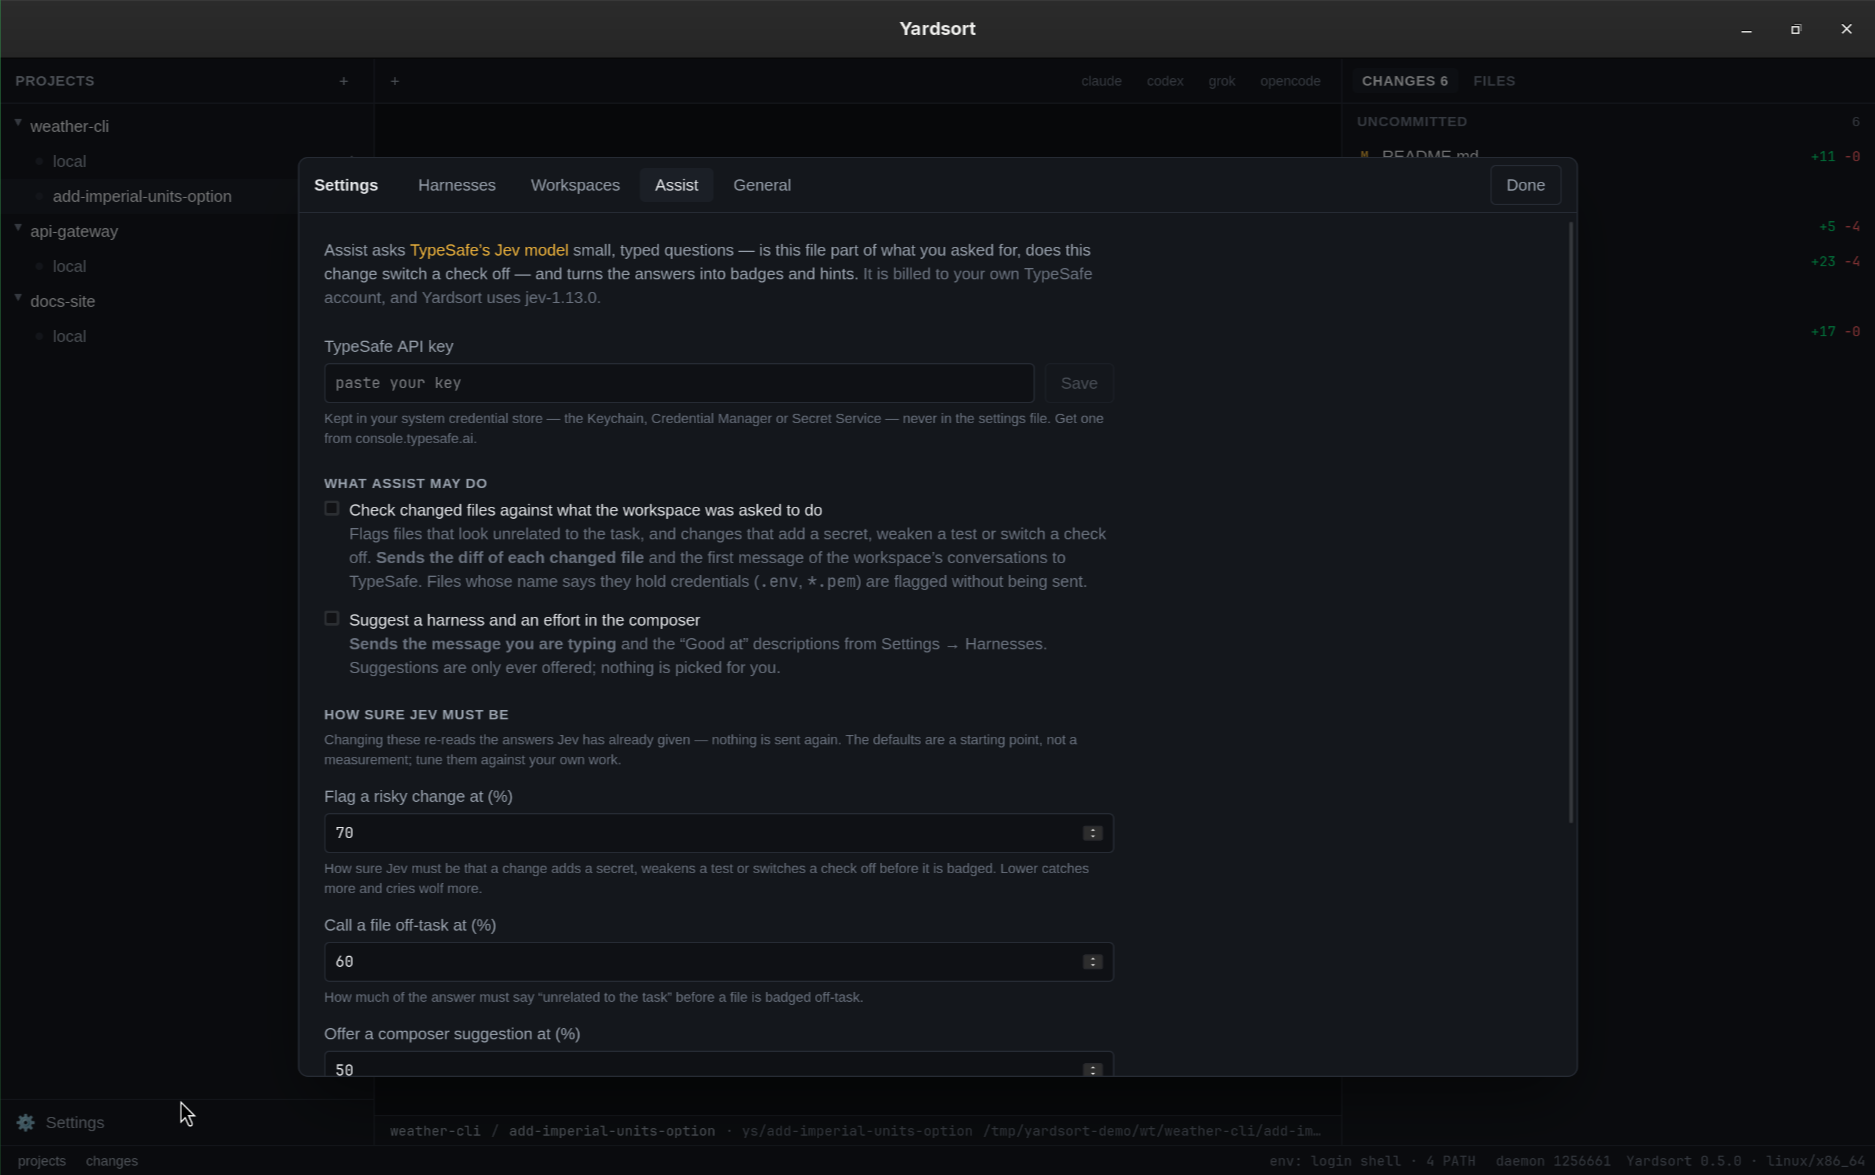
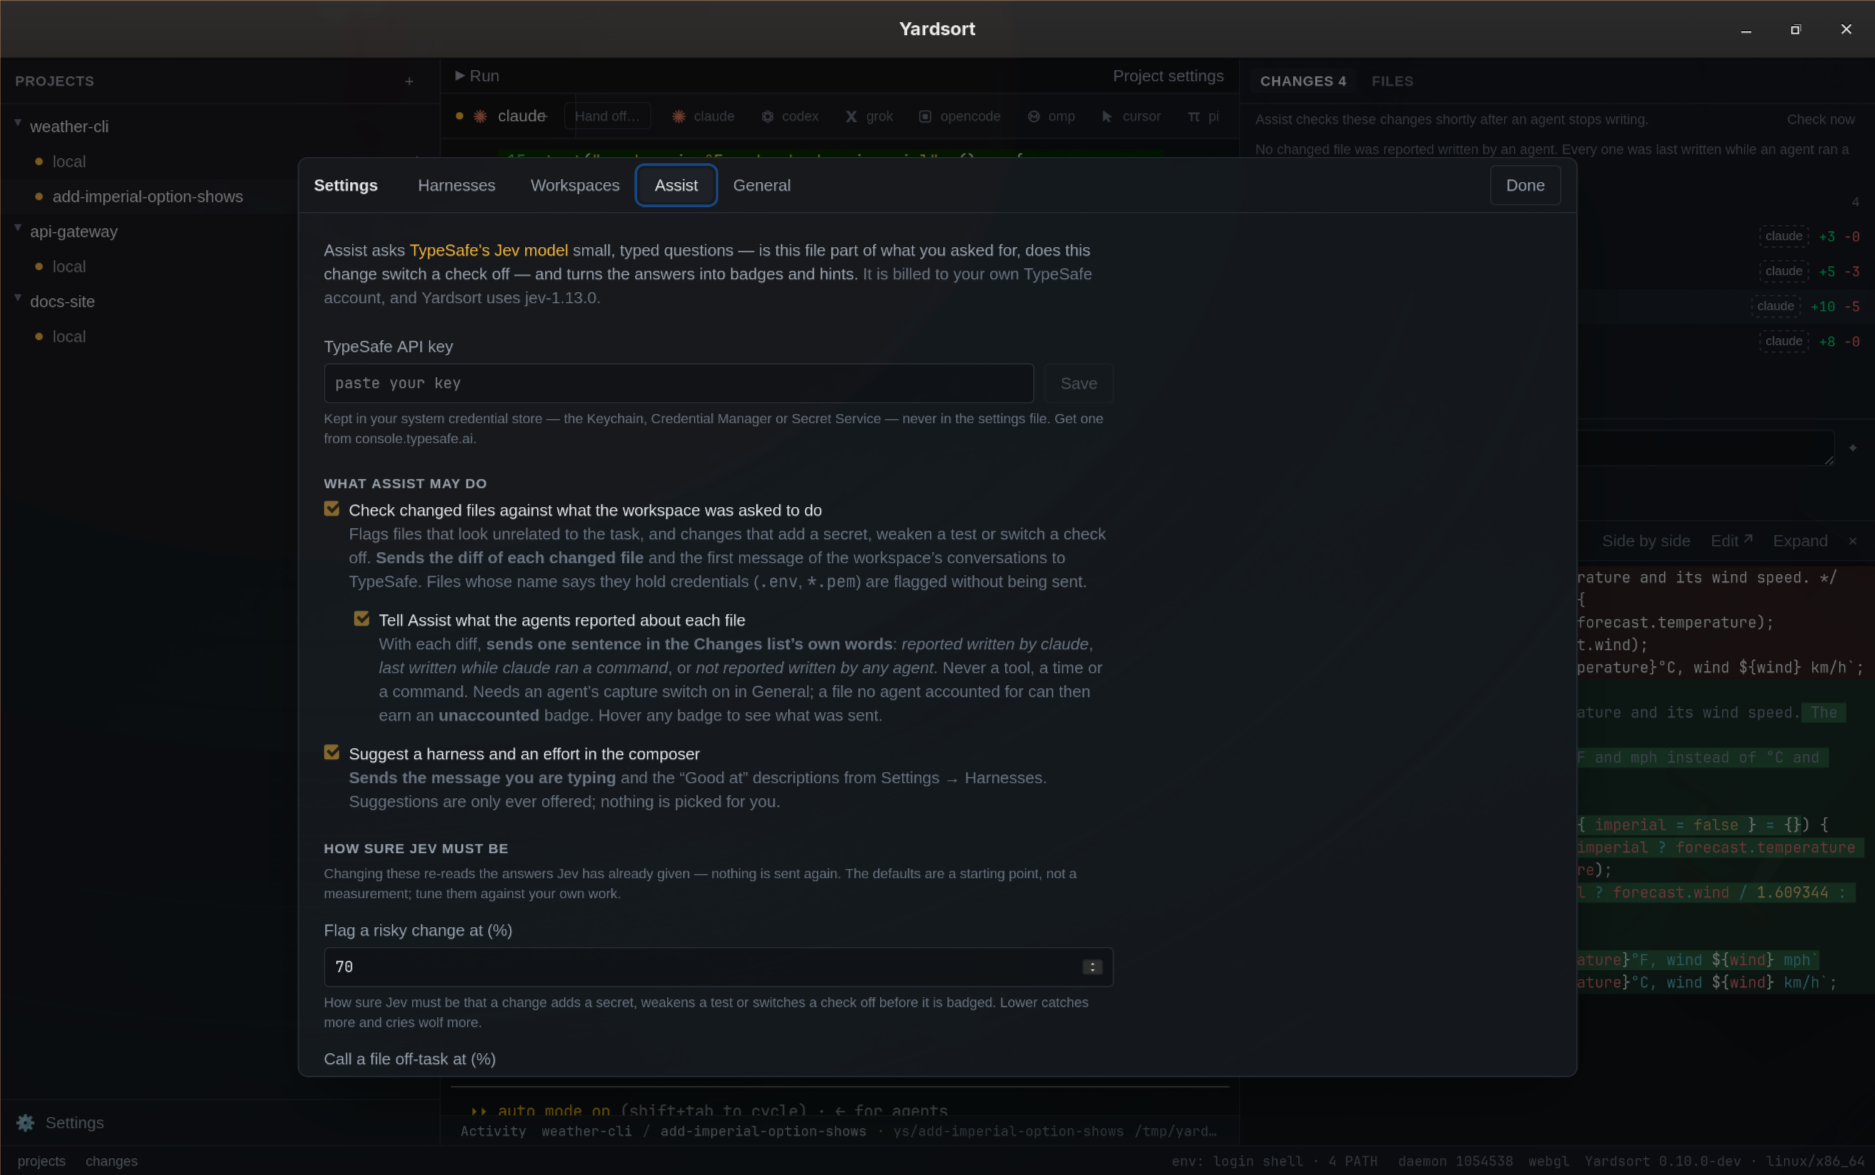
Screenshots for 0.11.0, and three small bugs they caught
overview.png is retaken with the seven agent buttons, Hand off…, and the
Changes list's who-wrote badges beside an open diff; assist.png with the
third switch. Both on the throwaway profile from scripts/screenshots.sh,
demo repositories, agent shims and the credential store unreachable.

Taking them caught three bugs in this release's own UI: Hand off… wrapped
onto two lines once the tab bar held seven agents (now nowrap and
unshrinkable); the line above the list said "Every one were last written"
when every changed file was observed (now "was", with a test); and the new
Assist switch's copy lost the space after its colon to a JSX line break.

diff --git a/src/features/changes/ChangesPanel.test.tsx b/src/features/changes/ChangesPanel.test.tsx
@@ -663,6 +663,26 @@ describe("ChangesPanel with reported writes", () => {
     expect(tooltip).not.toContain("Invalid");
   });
 
+  it("says every one was written while a command ran, in the singular, when all of them were", async () => {
+    const seen = (path: string) => ({
+      path,
+      reports: [],
+      observed: {
+        at: at + 5_000,
+        matches: [
+          { runId: "run-1", harnessId: "claude", tool: "Bash", from: at + 4_000, to: at + 6_000 },
+        ],
+      },
+    });
+    setChanges({ uncommitted: [change("src/app.ts"), change("notes.md")], committed: [] });
+    core.workspaceProvenance.mockResolvedValue(
+      provenance({ files: [seen("src/app.ts"), seen("notes.md")] }),
+    );
+    await renderPanel();
+    const note = await screen.findByText(/Every one was last written while an agent ran a command/);
+    expect(note).not.toHaveTextContent("were");
+  });
+
   it("asks again when a report lands, so a badge appears as the agent writes", async () => {
     core.workspaceProvenance.mockResolvedValueOnce(provenance({ files: [] }));
     await renderPanel();

diff --git a/src/features/changes/ReportedBadges.tsx b/src/features/changes/ReportedBadges.tsx
@@ -90,7 +90,7 @@ export function ProvenanceNote({ changes }: { changes: ChangeSet }) {
         ? "No changed file was reported written by an agent."
         : `Agents reported writing ${reported} of ${paths.size} changed files.`,
     observed > 0
-      ? `${observed === paths.size ? "Every one" : observed === 1 ? "One" : String(observed)} ${observed === 1 ? "was" : "were"} last written while an agent ran a command — seen on the file's clock, not reported.`
+      ? `${observed === paths.size ? "Every one" : observed === 1 ? "One" : String(observed)} ${observed === 1 || observed === paths.size ? "was" : "were"} last written while an agent ran a command — seen on the file's clock, not reported.`
       : null,
     rest > 0
       ? `${reported + observed === 0 ? "The changes" : rest === 1 ? "One more" : `${rest} more`} came from ${alternatives}.`

diff --git a/src/features/settings/AssistSettings.tsx b/src/features/settings/AssistSettings.tsx
@@ -308,7 +308,7 @@ export function AssistSettings() {
             Tell Assist what the agents reported about each file
             <span className="block text-ink-faint">
               With each diff,{" "}
-              <strong>sends one sentence in the Changes list&rsquo;s own words</strong>:
+              <strong>sends one sentence in the Changes list&rsquo;s own words</strong>:{" "}
               <em>reported written by claude</em>, <em>last written while claude ran a command</em>,
               or <em>not reported written by any agent</em>. Never a tool, a time or a command.
               Needs an agent&rsquo;s capture switch on in General; a file no agent accounted for can

diff --git a/src/features/terminal/TerminalTabs.tsx b/src/features/terminal/TerminalTabs.tsx
@@ -147,7 +147,7 @@ function HandOff({ workspaceId }: { workspaceId: string }) {
       disabled={busy}
       title="Start another agent here, with what Yardsort recorded about this workspace as its first message — to read and edit before it is sent"
       onClick={() => void handOff()}
-      className="mr-1 rounded border border-line px-2 py-0.5 text-[11px] text-ink-faint hover:border-accent hover:text-ink disabled:opacity-40"
+      className="mr-1 shrink-0 rounded border border-line px-2 py-0.5 text-[11px] whitespace-nowrap text-ink-faint hover:border-accent hover:text-ink disabled:opacity-40"
     >
       Hand off…
     </button>
